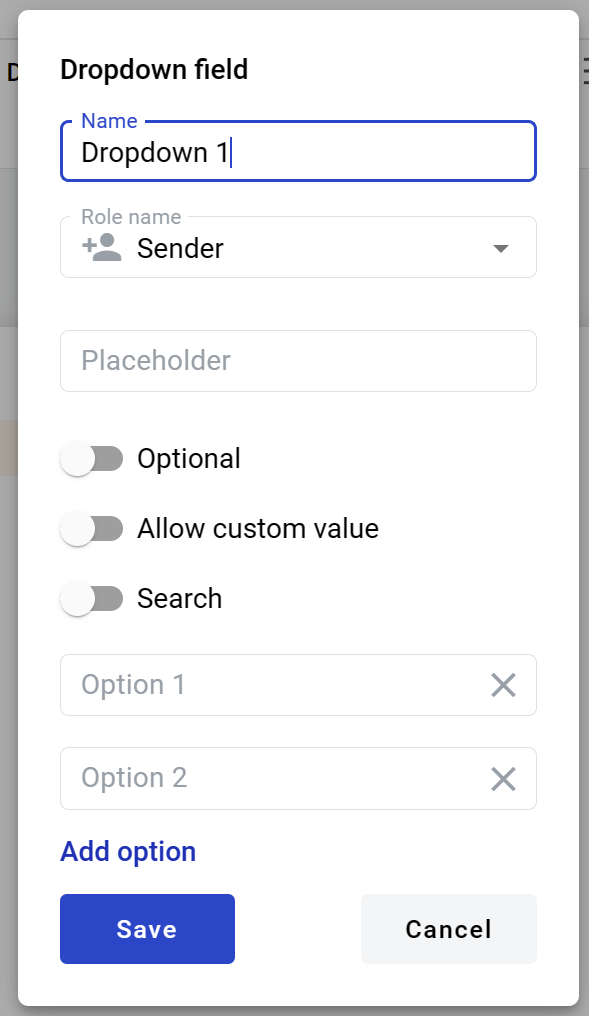
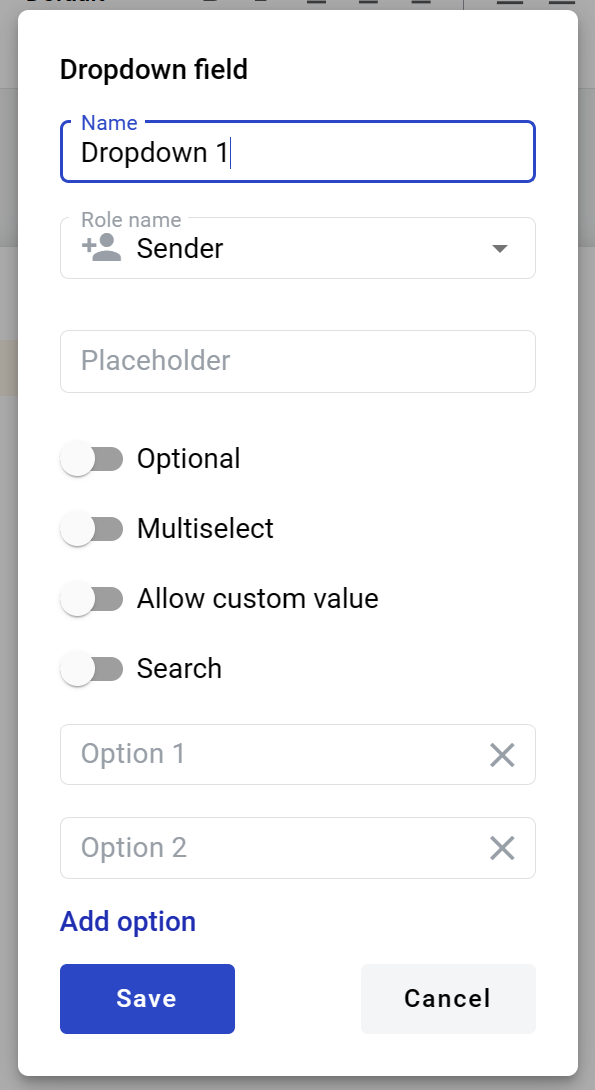
Multiselect attribute (#200)

diff --git a/docs/source/pages/howToWorkWithPlatform/mainApplication/templateList/templateManagement/documentManagementOnTemplate/fields/dropdown/dropdown.rst b/docs/source/pages/howToWorkWithPlatform/mainApplication/templateList/templateManagement/documentManagementOnTemplate/fields/dropdown/dropdown.rst
@@ -23,10 +23,11 @@ How to add dropdown field to the document
 4. Role name - this is a role which will be assgined to fill this field
 5. Placeholder - this text will be shown in the input box before anything is filled in (can be left empty, field name will be used instead)
 6. Optional - this attribute specifies if this field is mandatory to fill
-7. Allow custom values - this attribute specifies if field will allow free text input besides selection from predefined values
-8. Search - this attribute specifies if this field should be eligible for mailbox page search
-9. Option 1, 2, etc. - option available for selection. Can be deleted with 'X' button. Note that at least 1 option is mandatory and options can not be blank (min 1 max 50 characters per option)
-10. Add option - allows to add new options. 100 options max are allowed per field 
+7. Multiselect - this attribute specifies if multiple values can be selected (can not be enabled together with Allow custom value attribute)
+8. Allow custom values - this attribute specifies if field will allow free text input besides selection from predefined values (can not be enabled together with Multiselect attribute)
+9. Search - this attribute specifies if this field should be eligible for mailbox page search
+10. Option 1, 2, etc. - option available for selection. Can be deleted with 'X' button. Note that at least 1 option is mandatory and options can not be blank (min 1 max 50 characters per option)
+11. Add option - allows to add new options. 100 options max are allowed per field 
 
 When all attributes are set, you can click Save button and field will be added. You can click field to see its properties and update them. Also you can delete the field in same menu.
 
